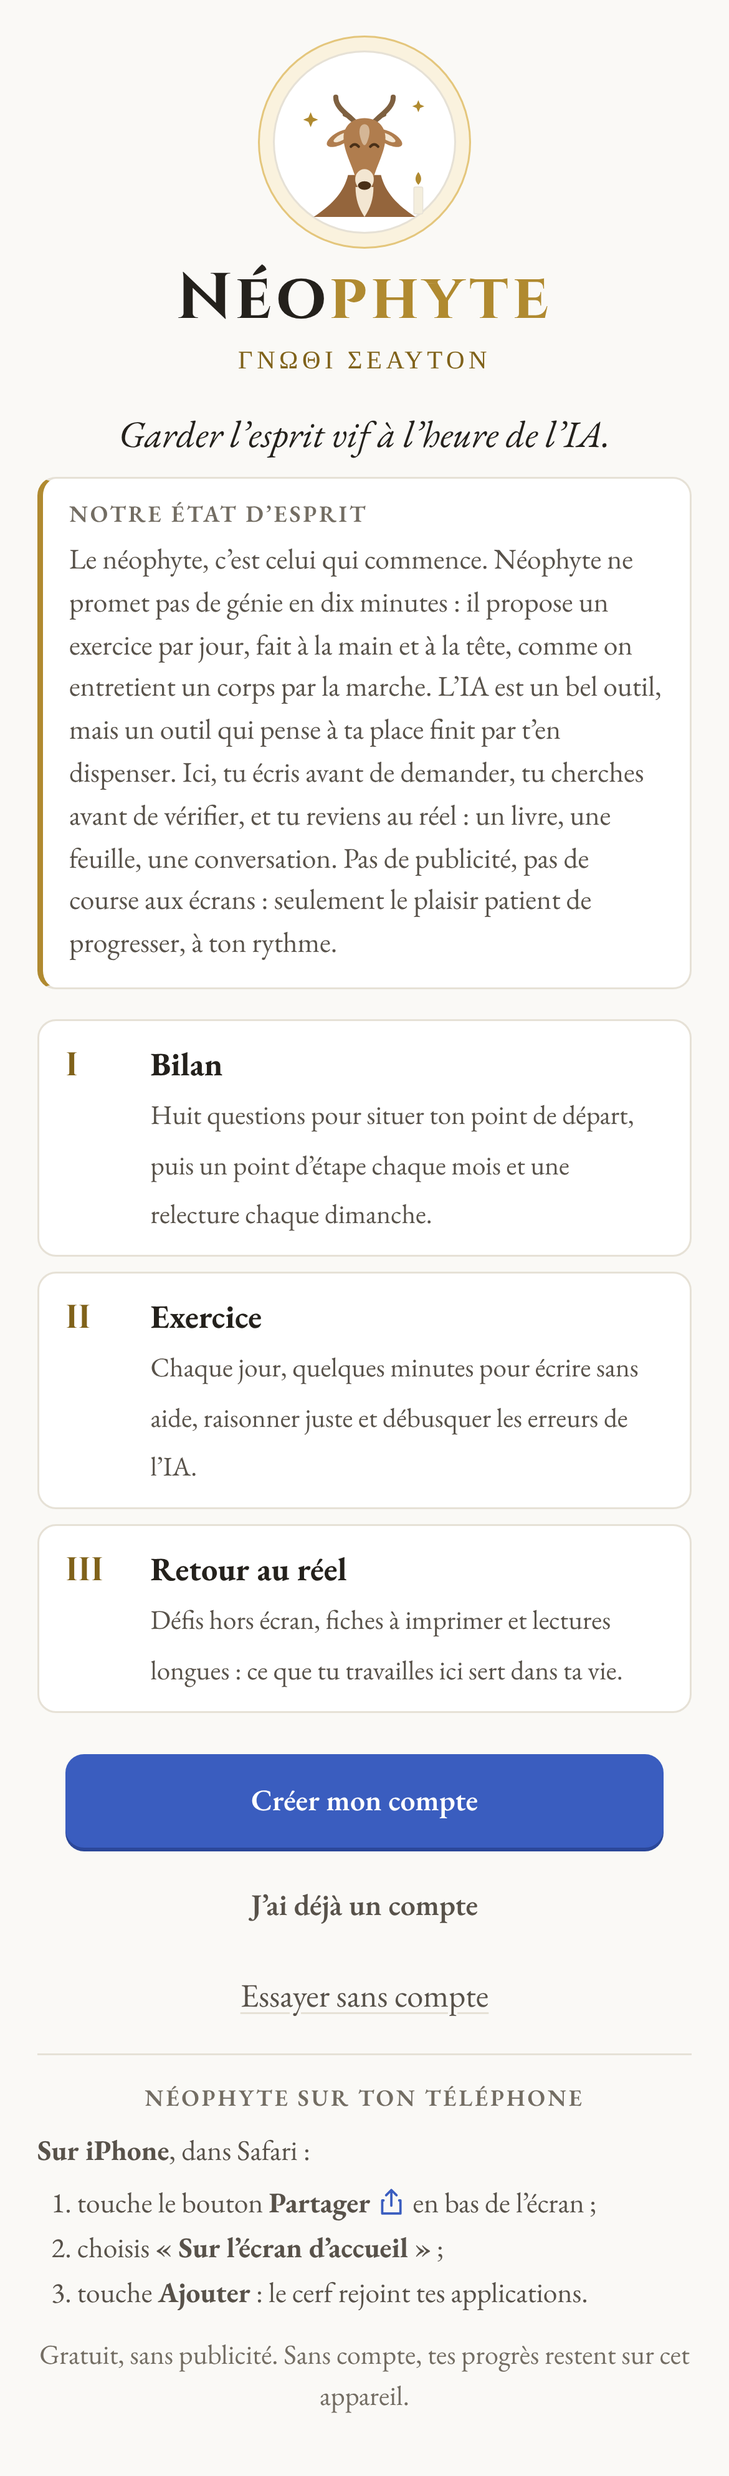
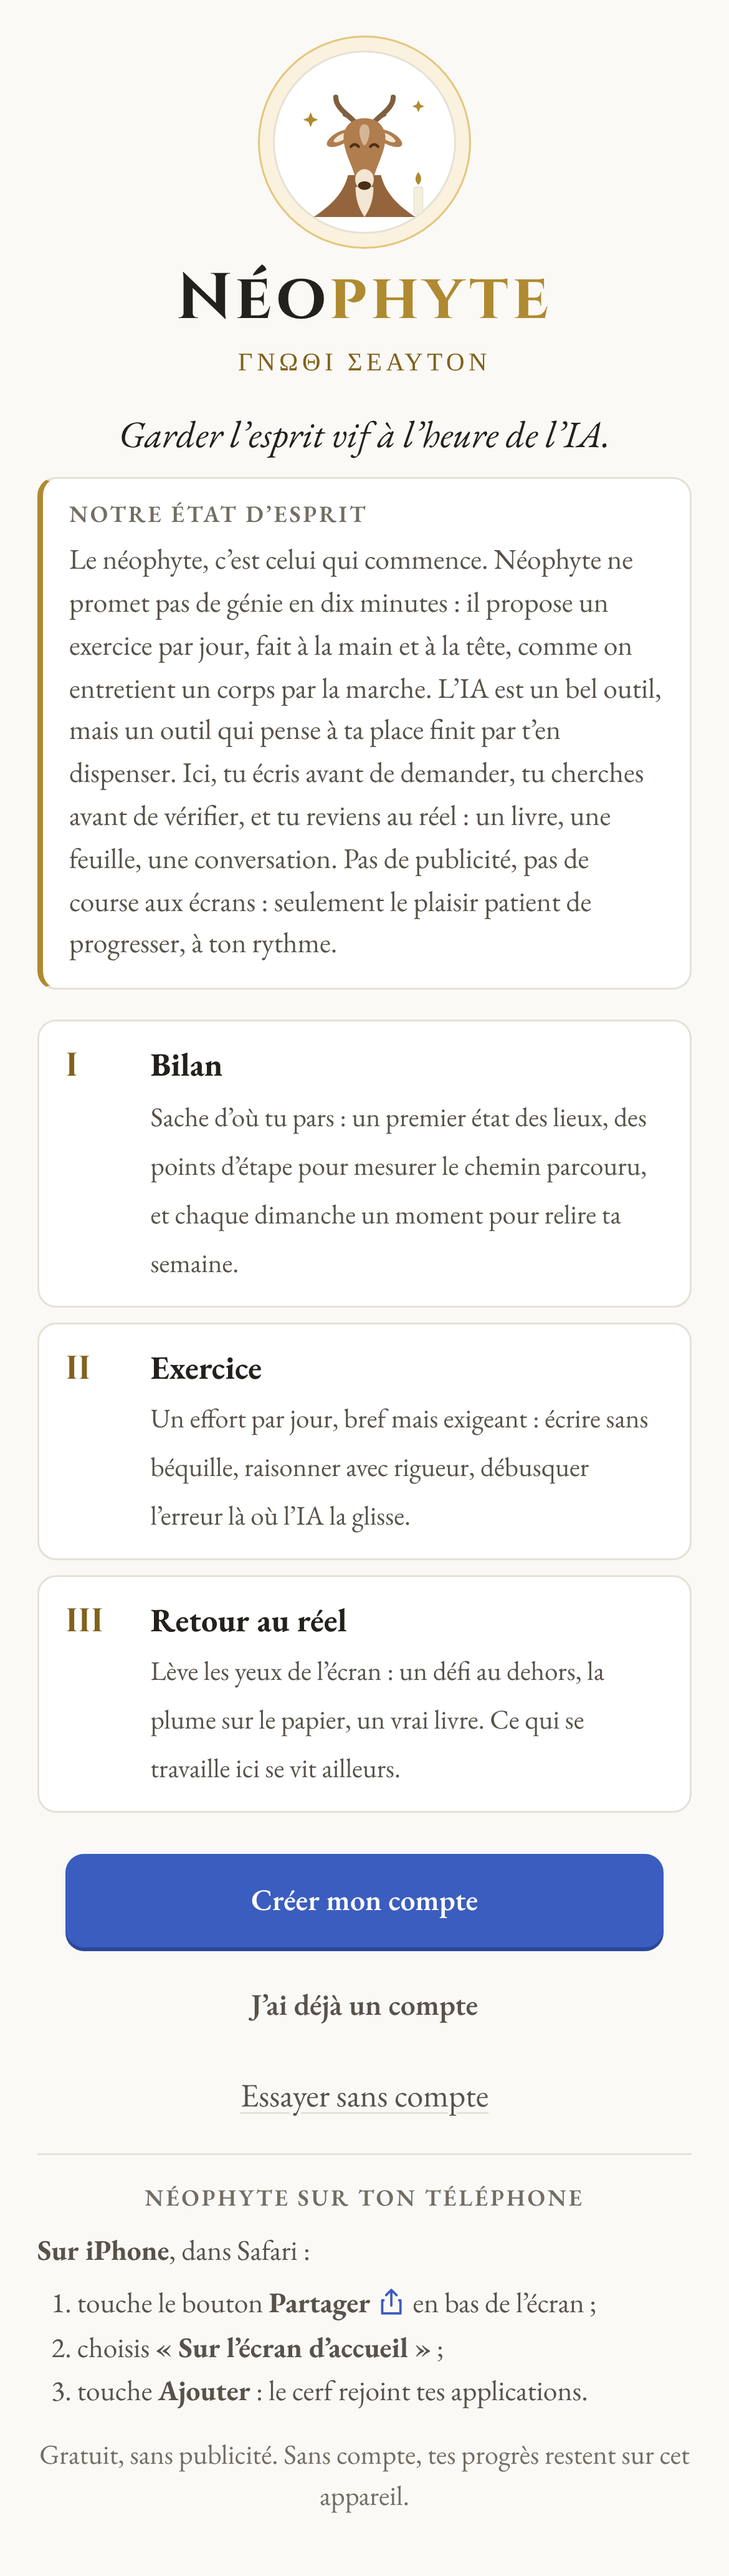
Accueil : cartes réécrites, plus littéraires
Claude-Session: https://claude.ai/code/session_01LZgnshbRNnxW2nDu48CvLA

diff --git a/public/index.html b/public/index.html
@@ -1399,9 +1399,9 @@ var fin=function(){if(e.parentNode)e.remove();};e.addEventListener('click',fin);
       <p>Le néophyte, c'est celui qui commence. Néophyte ne promet pas de génie en dix minutes : il propose un exercice par jour, fait à la main et à la tête, comme on entretient un corps par la marche. L'IA est un bel outil, mais un outil qui pense à ta place finit par t'en dispenser. Ici, tu écris avant de demander, tu cherches avant de vérifier, et tu reviens au réel : un livre, une feuille, une conversation. Pas de publicité, pas de course aux écrans : seulement le plaisir patient de progresser, à ton rythme.</p>
     </section>
     <ul class="wl-pts">
-      <li><i>I</i><div><b>Bilan</b><span>Huit questions pour situer ton point de départ, puis un point d'étape chaque mois et une relecture chaque dimanche.</span></div></li>
-      <li><i>II</i><div><b>Exercice</b><span>Chaque jour, quelques minutes pour écrire sans aide, raisonner juste et débusquer les erreurs de l'IA.</span></div></li>
-      <li><i>III</i><div><b>Retour au réel</b><span>Défis hors écran, fiches à imprimer et lectures longues : ce que tu travailles ici sert dans ta vie.</span></div></li>
+      <li><i>I</i><div><b>Bilan</b><span>Sache d'où tu pars : un premier état des lieux, des points d'étape pour mesurer le chemin parcouru, et chaque dimanche un moment pour relire ta semaine.</span></div></li>
+      <li><i>II</i><div><b>Exercice</b><span>Un effort par jour, bref mais exigeant : écrire sans béquille, raisonner avec rigueur, débusquer l'erreur là où l'IA la glisse.</span></div></li>
+      <li><i>III</i><div><b>Retour au réel</b><span>Lève les yeux de l'écran : un défi au dehors, la plume sur le papier, un vrai livre. Ce qui se travaille ici se vit ailleurs.</span></div></li>
     </ul>
     <div class="wl-act">
       <button class="btn primary" id="wl-signup">Créer mon compte</button>
